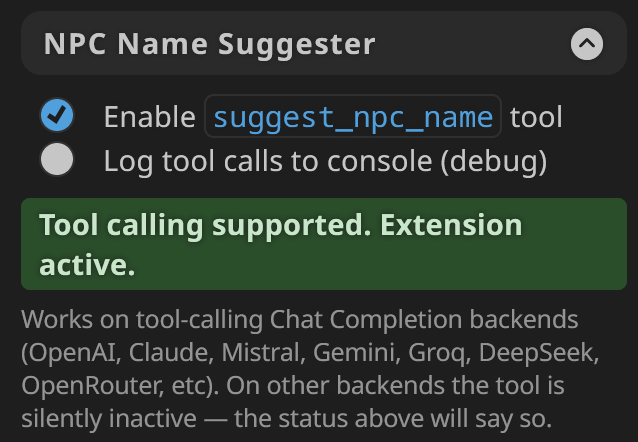
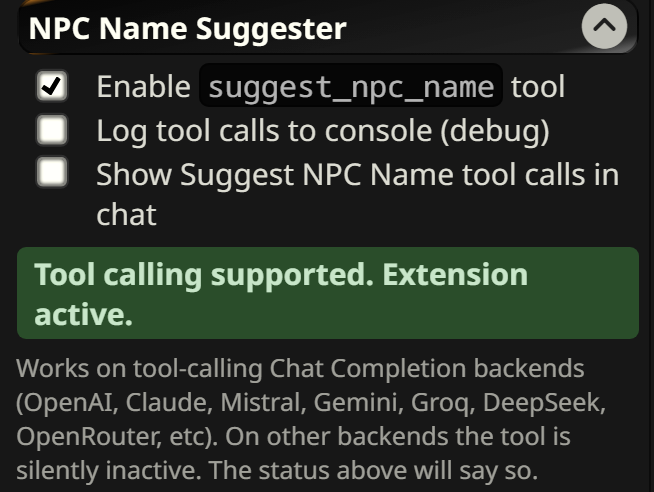
Hide our tool-call lines by default, with a toggle; README reordered
The chat line of suggest_npc_name is hidden unless "Show Suggest NPC Name
tool calls in chat" is on. Lines shared with another tool stay visible.
The README now opens with an overview and the install steps; the details
moved below, and the settings picture is new.

diff --git a/index.js b/index.js
@@ -3,18 +3,19 @@ import {
     renderExtensionTemplateAsync,
     saveMetadataDebounced,
 } from '../../../extensions.js';
-import { chat_metadata, name1, saveSettingsDebounced } from '../../../../script.js';
+import { chat, chat_metadata, name1, saveSettingsDebounced } from '../../../../script.js';
 import { eventSource, event_types } from '../../../events.js';
 import { selected_group } from '../../../group-chats.js';
 import { ToolManager } from '../../../tool-calling.js';
 import { pickName, deriveEnumValues, readUsed } from './picker.js';
 import { injectBeforeLatest, isInstalledIn } from './advertisement.js';
+import { markToolCallLines } from './tool-calls.js';
 
 const MODULE = 'npcNames';
 const EXT_DIR = 'third-party/SillyTavern-Extension-NPCNames';
 const TOOL_NAME = 'suggest_npc_name';
 const LOG_TAG = '[NPCNames]';
-const DEFAULT_SETTINGS = { enabled: true, debugLog: false };
+const DEFAULT_SETTINGS = { enabled: true, debugLog: false, showToolCalls: false };
 // Matches ST's own noToolCallTypes in tool-calling.js: generation types
 // where tool calls are blocked, so injecting the advertisement on these
 // would just be wasted context.
@@ -166,6 +167,24 @@ function bindSettingCheckbox(selector, key, sideEffect) {
         });
 }
 
+function applyToolCallVisibility() {
+    markToolCallLines(
+        document.querySelectorAll('#chat .mes.toolCall'),
+        chat,
+        TOOL_NAME,
+        extension_settings[MODULE].showToolCalls,
+    );
+}
+
+// ST draws chat lines from several places, not all followed by an event, and
+// a redrawn line loses our class. Removals are skipped: while lines are being
+// deleted their ids may not match the chat yet.
+function watchChatLines() {
+    new MutationObserver(records => {
+        if (records.some(record => record.addedNodes.length > 0)) applyToolCallVisibility();
+    }).observe(document.getElementById('chat'), { childList: true });
+}
+
 function updateStatusBadge() {
     const el = document.getElementById('npc_names_status');
     if (!el) return;
@@ -185,6 +204,9 @@ function updateStatusBadge() {
 
 jQuery(async () => {
     loadSettings();
+    // First, so old lines stay hidden while the data loads and if it cannot.
+    watchChatLines();
+    applyToolCallVisibility();
     if (!isInstalledIn(import.meta.url, EXT_DIR)) {
         const text = `Installed in the wrong folder. Rename its folder to ${EXT_DIR.split('/').pop()} and reload.`;
         console.error(LOG_TAG, text);
@@ -212,6 +234,7 @@ jQuery(async () => {
         applyEnabled(extension_settings[MODULE].enabled),
     );
     bindSettingCheckbox('#npc_names_debug', 'debugLog');
+    bindSettingCheckbox('#npc_names_show_tool_calls', 'showToolCalls', applyToolCallVisibility);
 
     // Source / model change events don't fire when the user toggles the
     // standalone `Enable function calling` checkbox or loads an OAI preset

diff --git a/test.js b/test.js
@@ -2,6 +2,7 @@
 
 import { deriveEnumValues, pickName, readUsed } from './picker.js';
 import { injectBeforeLatest, isInstalledIn } from './advertisement.js';
+import { HIDDEN_TOOL_CALL_CLASS, markToolCallLines } from './tool-calls.js';
 import assert from 'node:assert/strict';
 import { readFileSync } from 'node:fs';
 import { foldName, loadOverused } from './tools/overused.mjs';
@@ -200,6 +201,29 @@ test('in a group chat the advertisement bears the user\'s name, which SillyTaver
     assert.equal(chat[0].name, 'Me');
     injectBeforeLatest(chat, 'ad');
     assert.equal(chat[1].name, 'NPC Name Suggester');
+});
+
+test('only lines holding nothing but our tool are hidden, and only while showing is off', () => {
+    const chat = [
+        { extra: { tool_invocations: [{ name: 'ours' }, { name: 'ours' }] } },
+        { extra: { tool_invocations: [{ name: 'ours' }, { name: 'theirs' }] } },
+        { extra: { tool_invocations: [{ name: 'theirs' }] } },
+        { extra: { tool_invocations: [] } },
+        { extra: {} },
+    ];
+    const lines = chat.map((_, id) => {
+        const classes = new Set();
+        return {
+            classes,
+            getAttribute: () => String(id),
+            classList: { toggle: (name, on) => (on ? classes.add(name) : classes.delete(name)) },
+        };
+    });
+    const hidden = () => lines.map(line => line.classes.has(HIDDEN_TOOL_CALL_CLASS));
+    markToolCallLines(lines, chat, 'ours', false);
+    assert.deepEqual(hidden(), [true, false, false, false, false]);
+    markToolCallLines(lines, chat, 'ours', true);
+    assert.deepEqual(hidden(), [false, false, false, false, false]);
 });
 
 test('the install folder is told from the module\'s address', () => {

diff --git a/tool-calls.js b/tool-calls.js
@@ -1,0 +1,18 @@
+// Marks the chat lines SillyTavern shows for tool calls. Its manual gives the
+// `toolCall` class for hiding them with CSS; that class is on every tool's
+// line, so this picks out the lines that hold nothing but our own tool.
+export const HIDDEN_TOOL_CALL_CLASS = 'npc-names-hidden-tool-call';
+
+function holdsOnlyTool(message, toolName) {
+    const invocations = message?.extra?.tool_invocations;
+    return Array.isArray(invocations)
+        && invocations.length > 0
+        && invocations.every(invocation => invocation.name === toolName);
+}
+
+export function markToolCallLines(lines, chat, toolName, show) {
+    for (const line of lines) {
+        const message = chat[Number(line.getAttribute('mesid'))];
+        line.classList.toggle(HIDDEN_TOOL_CALL_CLASS, !show && holdsOnlyTool(message, toolName));
+    }
+}

diff --git a/settings.html b/settings.html
@@ -13,6 +13,10 @@
                 <input id="npc_names_debug" type="checkbox" />
                 <span>Log tool calls to console (debug)</span>
             </label>
+            <label class="checkbox_label" for="npc_names_show_tool_calls">
+                <input id="npc_names_show_tool_calls" type="checkbox" />
+                <span>Show Suggest NPC Name tool calls in chat</span>
+            </label>
             <div id="npc_names_status" class="npc-names-status">…</div>
             <small>
                 Works on tool-calling Chat Completion backends (OpenAI, Claude,

diff --git a/style.css b/style.css
@@ -4,6 +4,10 @@
     opacity: 0.7;
 }
 
+.mes.npc-names-hidden-tool-call {
+    display: none;
+}
+
 .npc-names-status {
     display: inline-block;
     padding: 0.2em 0.6em;

diff --git a/README.md b/README.md
@@ -2,9 +2,72 @@
 
 A SillyTavern extension that picks NPC names from a curated database, so the AI stops inventing yet another Elara or Marcus.
 
-The AI calls the tool whenever it introduces a new character. It can pass filters like gender, culture, era, vibe. It gets back a first and last name plus a few tags to colour the narration; gods, dragons, cyberpunk handles, Native American and Mongolian figures get a single name: gods take no surname and the database has none for the others. A name already used in the chat will not come back from the same culture until every name fitting the request has been used.
+- Whenever a new character enters the story, the AI asks the extension for a name. You do not type anything special.
+- The name fits the character: the AI can ask for a gender, culture, era or vibe.
+- Names do not repeat: one already used in the chat stays away while other names fit.
+- It needs an AI backend that supports tool calling; most modern Chat Completion APIs do.
 
-The AI is supposed to call the tool on its own whenever it introduces a new NPC. 
+## Install
+
+In SillyTavern, open Extensions, click Install Extension, paste this URL, and confirm:
+
+```
+https://github.com/elana-voss/SillyTavern-Extension-NPCNames
+```
+
+## Setup
+
+Three settings must be on after install.
+
+### Step 1: Enable function calling
+
+![Step 1](docs/1_sillytavern_get_name_enable_function_calling.png)
+
+In the Chat Completion Presets panel, tick **Enable function calling**.
+
+### Step 2: Set Prompt Post-Processing to `None` or a "with tools" option
+
+![Step 2](docs/2_sillytavern_get_name_preset_enable_use_tools.png)
+
+In the API panel, set Prompt Post-Processing to `None` or to one of the "with tools" options. The others will not let the AI call any tools.
+
+### Step 3: Turn on the extension
+
+![Step 3](docs/3_sillytavern_get_name_enable_extension.png)
+
+In Extensions, open NPC Name Suggester and check that **Enable suggest_npc_name tool** is ticked; it is on by default. The status badge turns green.
+
+## Verify it works
+
+These prompts are just to confirm the tool fires. In normal roleplay you do not type anything special; the AI calls the tool on its own whenever a new NPC enters the scene.
+
+Drop one of these into a chat:
+
+> Introduce a new NPC walking into the scene right now.
+
+> A grizzled noir-coded private investigator from the 1920s walks into the bar. Introduce him.
+
+> Three peasant farmhands stop the party at the gate. Name them.
+
+If the debug-log checkbox is on, every call shows up in the browser devtools console. See [docs/4_sillytavern_console_example.txt](docs/4_sillytavern_console_example.txt) for an example trace.
+
+## Backend requirement
+
+Only works with AI backends that support tool calling. Most modern Chat Completion APIs do. If yours does not, the status badge says so and the extension does nothing.
+
+## Settings
+
+Three checkboxes:
+
+- **Enable suggest_npc_name tool**: on by default.
+- **Log tool calls to console (debug)**: off by default.
+- **Show Suggest NPC Name tool calls in chat**: off by default. While off, the "Tool calls: Suggest NPC Name" lines are hidden; the AI still receives the name. A line that also holds another extension's tool stays visible.
+
+The extension also adds a chunk of text just before the latest chat message, explaining the tool to the AI. See [assets/advertisement.txt](assets/advertisement.txt) for the wording.
+
+## How it works
+
+The AI calls the tool whenever it introduces a new character. It can pass filters like gender, culture, era, vibe. It gets back a first and last name plus a few tags to colour the narration; gods, dragons, cyberpunk handles, Native American and Mongolian figures get a single name: gods take no surname and the database has none for the others. A name already used in the chat will not come back from the same culture until every name fitting the request has been used.
 
 Pseudo-signature of `suggest_npc_name` (every argument is optional, pass any subset):
 ```
@@ -33,63 +96,6 @@ The values currently in the database:
 `race: human` is for every person; `mythical` only for a god, spirit or monster. A `mythology` filter goes with `race: mythical`, never `human`: when nothing matches, `mythology` is dropped before `race` and the pantheon is lost. `cyberpunkHandle` holds online handles (GhostRunner, Nova404), not names.
 
 A filter sent as a list matches any of its values. Unknown values are tolerated: the picker drops only the filters that stop a name from matching and reports them. A `genre` filter picks names tagged with that genre first, then untagged names, which it reports as relaxed; some genres hold very few tagged names (`postApocalyptic` one, `horror` 26).
-
-## Install
-
-In SillyTavern, open Extensions, click Install Extension, paste this URL, and confirm:
-
-```
-https://github.com/elana-voss/SillyTavern-Extension-NPCNames
-```
-
-## Setup
-
-Three settings need flipping on after install.
-
-### Step 1: Enable function calling
-
-![Step 1](docs/1_sillytavern_get_name_enable_function_calling.png)
-
-In the Chat Completion Presets panel, tick **Enable function calling**.
-
-### Step 2: Set Prompt Post-Processing to `None` or a "with tools" option
-
-![Step 2](docs/2_sillytavern_get_name_preset_enable_use_tools.png)
-
-In the API panel, set Prompt Post-Processing to `None` or to one of the "with tools" options. The others will not let the AI call any tools.
-
-### Step 3: Turn on the extension
-
-![Step 3](docs/3_sillytavern_get_name_enable_extension.png)
-
-In Extensions, find NPC Name Suggester and tick **Enable suggest_npc_name tool**. The status badge turns green.
-
-## Verify it works
-
-These prompts are just to confirm the tool fires. In normal roleplay you do not type anything special; the AI calls the tool on its own whenever a new NPC enters the scene.
-
-Drop one of these into a chat:
-
-> Introduce a new NPC walking into the scene right now.
-
-> A grizzled noir-coded private investigator from the 1920s walks into the bar. Introduce him.
-
-> Three peasant farmhands stop the party at the gate. Name them.
-
-If the debug-log checkbox is on, every call shows up in the browser devtools console. See [docs/4_sillytavern_console_example.txt](docs/4_sillytavern_console_example.txt) for an example trace.
-
-## Backend requirement
-
-Only works with AI backends that support tool calling. Most modern Chat Completion APIs do. If yours does not, the status badge says so and the extension does nothing.
-
-## Settings
-
-Two checkboxes:
-
-- **Enable suggest_npc_name tool**: on by default.
-- **Log tool calls to console (debug)**: off by default.
-
-The extension also adds a chunk of text just before the latest chat message, explaining the tool to the AI. See [assets/advertisement.txt](assets/advertisement.txt) for the wording.
 
 ## Data Source
 

diff --git a/PLAN.md b/PLAN.md
@@ -12,6 +12,7 @@ Run by the skill software-project. Every token figure is Claude's estimate (inpu
 - R6 Names under the wrong culture move "only if you are sure".
 - R7 "then write a plan to fix all of this", meaning every finding below; `race: human` is the tag for ordinary human names.
 - R8 About the project that shows how nano-gpt is reached: "do NOT reference that project from here, just look how it access nano-gpt."
+- R9 "Can we offer a toggle in the UI that hides the tool calls on default and shows them when toggled on?"; "only ours"; "we do that to our own tool calls only, when we can isolate them in the UI."
 
 ## Milestones
 
@@ -220,6 +221,7 @@ None open.
 - Milestone 8, the dragon: the instructions and the tool now name `race: elf`, `race: dwarf` and `race: dragon`, and say that with no race any race can come back. One run before and one after; that is what shows the change helped.
 - Milestone 8, Thai names stay in Thai script as the requirement says; the model wrote them in Latin letters by itself.
 - Milestone 8, code review: not due, under 20 lines of product code changed.
+- R9: our line is hidden with a class of our own beside SillyTavern's `toolCall`, as its manual describes; a line that also holds another tool stays visible. A watch on the chat's lines sets the class, because SillyTavern redraws lines in places that emit no event. It starts before the name data loads, so old lines stay hidden when the data is late or fails.
 
 ## Trials
 

diff --git a/CLAUDE.md b/CLAUDE.md
@@ -3,5 +3,5 @@
 SillyTavern extension; software project, run by the skill software-project.
 
 - The plan: `PLAN.md`.
-- Tests: `node test.js`. `index.js` imports SillyTavern modules and only runs inside SillyTavern; keep logic that needs a test in `picker.js` or `advertisement.js`.
+- Tests: `node test.js`. `index.js` imports SillyTavern modules and only runs inside SillyTavern; keep logic that needs a test in `picker.js`, `advertisement.js` or `tool-calls.js`.
 - `data/name_database.tagged.json` began as a copy from cardwave (`tools/generate_names/data`) and now has corrected names; a fresh copy from there brings the malformed names back.
